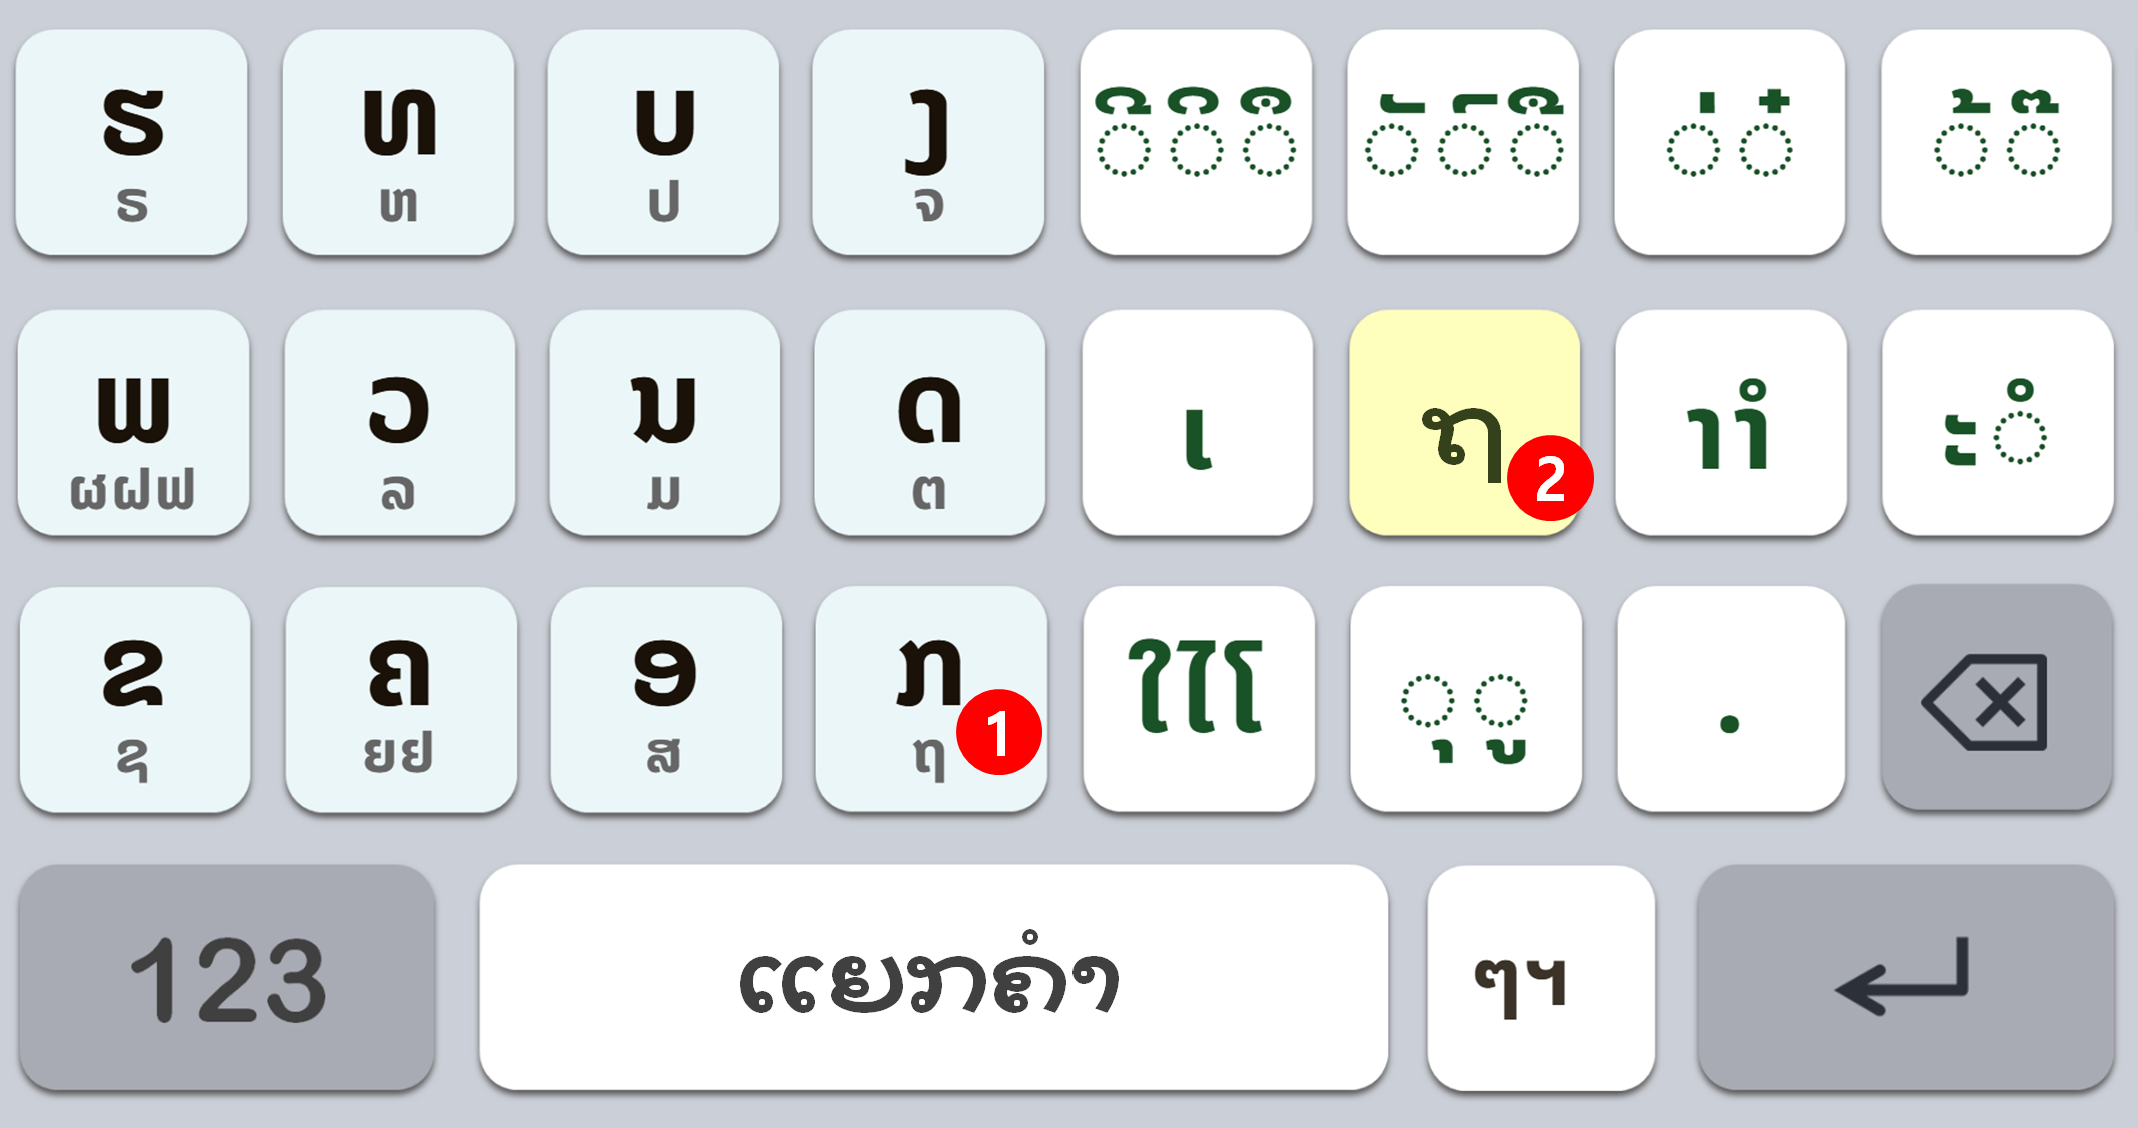
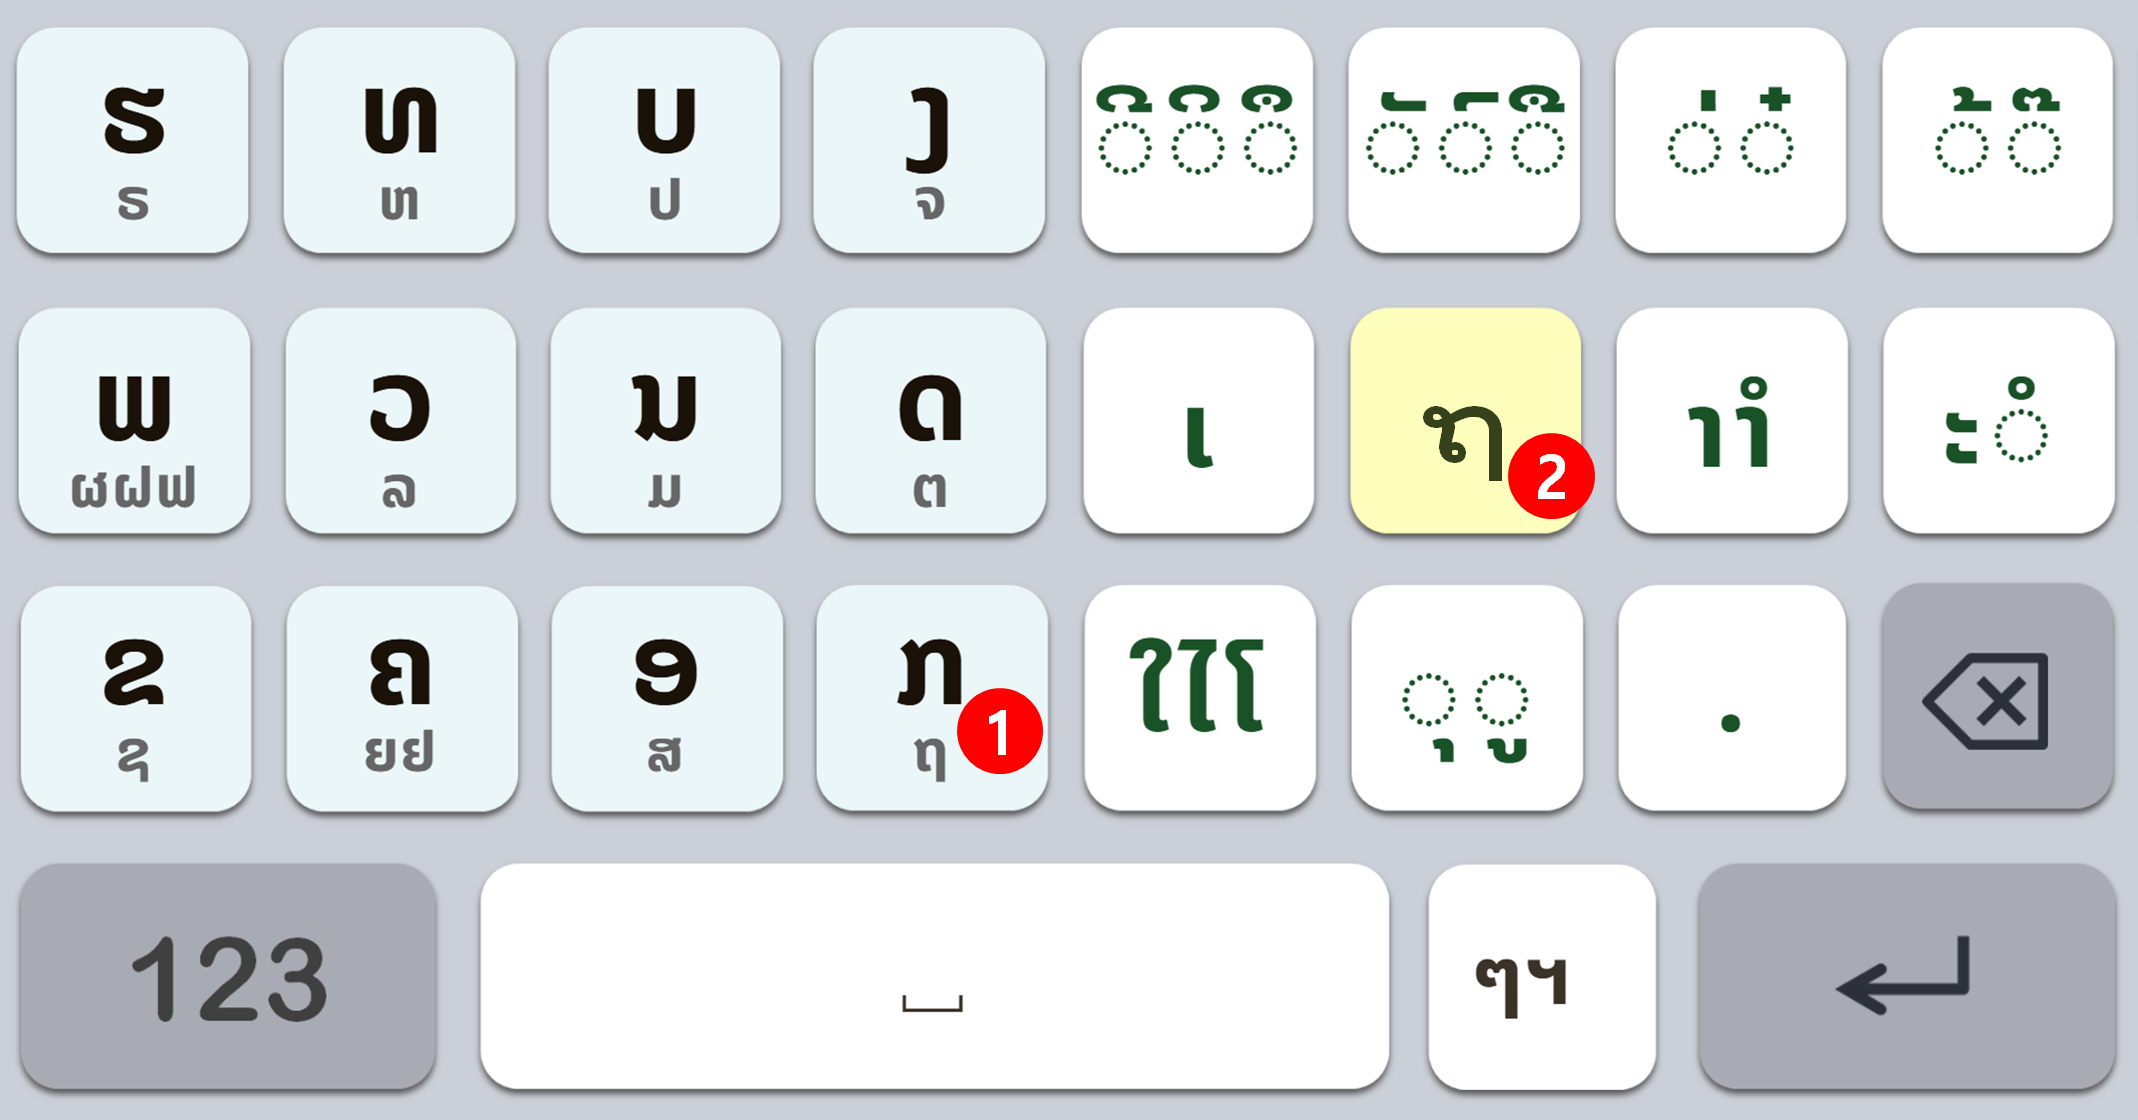
Add files via upload

diff --git a/mobile_demo.html b/mobile_demo.html
@@ -3,12 +3,12 @@
 <head>
 <meta charset="utf-8" />
 <meta name="viewport" content="width=device-width, initial-scale=1, maximum-scale=1, user-scalable=no, viewport-fit=cover" />
-<link href="https://fonts.googleapis.com/css2?family=Noto+Sans+Lao:wght@400;700&family=Noto+Sans:wght@400;700&display=swap" rel="stylesheet">
+<link href="https://fonts.googleapis.com/css2?family=Noto+Sans+Lao:wght@400;700&display=swap" rel="stylesheet">
 <style>
   * { box-sizing: border-box; margin: 0; padding: 0; }
   html, body {
     height: 100%; background: #6b7280;
-    font-family: 'Noto Sans Lao', 'Noto Sans', sans-serif;
+    font-family: 'Noto Sans Lao', sans-serif;
     overflow: hidden;
     display: flex;
     justify-content: center;
@@ -41,7 +41,6 @@
     white-space: pre-wrap; color: #1a1208; overflow-wrap: break-word;
   }
   .cursor { color: #4caf80; animation: blink 1s step-end infinite; font-weight: 100; }
-  .caron { font-family: 'Noto Sans', Arial, sans-serif; font-size: 0.75em; color: #999; font-weight: 300; }
   @keyframes blink { from, to { opacity: 0; } 50% { opacity: 1; } }
 
   #keyboard-wrap {
@@ -62,7 +61,8 @@
     -webkit-tap-highlight-color: transparent;
     user-select: none;
     display: flex; align-items: center; justify-content: center;
-    font-family: 'Noto Sans Lao', 'Noto Sans', sans-serif;
+    font-family: 'Noto Sans Lao', sans-serif;
+    font-weight: bold;
     padding: 0;
   }
   .kbd-btn:active { opacity: 0.5; }
@@ -82,7 +82,7 @@
     position: absolute;
     pointer-events: none;
     display: flex; align-items: center; justify-content: center;
-    font-family: 'Noto Sans Lao', 'Noto Sans', sans-serif; font-weight: bold;
+    font-family: 'Noto Sans Lao', sans-serif; font-weight: bold;
   }
   .kbd-space-label { font-size: clamp(13px, 3.8vw, 18px); color: #3b3228; }
   .kbd-repeat-label { font-size: clamp(12px, 4vw, 18px); color: #3b3228; }
@@ -154,7 +154,6 @@ let state = {
   signTapIdx: 0,
   hConjMode: false,
   hConjChar: null,  // 현재 합자된 자음 (ນ, ມ, ລ 등)
-  spaceMode: 0,     // 0=초기, 1=1탭(ZWSP+캐런 삽입됨), 2+=공란모드
 };
 
 const editor = document.getElementById('editor');
@@ -162,8 +161,7 @@ function getText() { return editor.dataset.text || ''; }
 function setText(t) {
   editor.dataset.text = t;
   const esc = t.replace(/&/g,'&amp;').replace(/</g,'&lt;').replace(/>/g,'&gt;');
-  const withCaron = esc.replace(/\u02C7/g, '<span class="caron">ˇ</span>');
-  editor.innerHTML = withCaron + `<span class="cursor">|</span>`;
+  editor.innerHTML = esc + `<span class="cursor">|</span>`;
 }
 function appendText(c) { setText(getText() + c); }
 function replaceLastChar(c) { const t=getText(); if(!t.length)return; setText(t.slice(0,-1)+c); }
@@ -173,17 +171,7 @@ function getRoot(char) {
   return null;
 }
 
-// 캐런(ˇ) 자동 삭제 + spaceMode 리셋
-function clearCaron() {
-  if (state.spaceMode === 1) {
-    const t = getText();
-    if (t.endsWith('\u02C7')) setText(t.slice(0, -1));
-  }
-  state.spaceMode = 0; // 어떤 키든 입력되면 항상 리셋
-}
-
 function handleConsonant(root) {
-  clearCaron();
   const arr = consonantRows[root];
   const char = arr[0];
   if (state.hConjMode) {
@@ -211,7 +199,6 @@ function handleConsonant(root) {
 }
 
 function handleNext() {
-  clearCaron();
   // 합자 상태에서 변환키: 합자 자음을 그룹 내 다음 자음으로 교체
   if (state.hConjChar) {
     const conjRoot = getRoot(state.hConjChar);
@@ -250,7 +237,6 @@ function handleNext() {
 }
 
 function handleSign(keyId, chars) {
-  clearCaron();
   if (state.lastSignKey === keyId) {
     state.signTapIdx = (state.signTapIdx + 1) % chars.length;
     const t = getText(); setText(t.slice(0,-1) + chars[state.signTapIdx]);
@@ -263,7 +249,6 @@ function handleSign(keyId, chars) {
 }
 
 function handleDot() {
-  clearCaron();
   appendText('.');
   state.lastSignKey = null; state.signTapIdx = 0;
   state.activeRoot = null; state.activeCharIdx = 0;
@@ -271,19 +256,6 @@ function handleDot() {
 }
 
 function handleBS() {
-  // BS: 캐런 있으면 캐런만 지우고 spaceMode 리셋, 없으면 일반 BS
-  if (state.spaceMode === 1) {
-    const tc = getText();
-    if (tc.endsWith('\u02C7')) setText(tc.slice(0, -1)); // 캐런 제거
-    state.spaceMode = 0;
-    state.lastSignKey = null; state.signTapIdx = 0; state.hConjMode = false;
-    const t2 = getText();
-    const last2 = t2.length ? t2[t2.length-1] : null;
-    const root2 = last2 ? getRoot(last2) : null;
-    state.activeRoot = root2;
-    state.activeCharIdx = root2 ? consonantRows[root2].indexOf(last2) : 0;
-    render(); return;
-  }
   const tb = getText(); if (state.hConjMode && tb.endsWith('+')) setText(tb.slice(0,-1));
   backspace();
   state.lastSignKey = null; state.signTapIdx = 0; state.hConjMode = false;
@@ -296,7 +268,6 @@ function handleBS() {
 }
 
 function handleRepeat() {
-  clearCaron();
   const chars = ['ໆ','ຯ'];
   const keyId = 'repeat';
   if (state.lastSignKey === keyId) {
@@ -444,24 +415,14 @@ function render() {
   kbd.appendChild(makeBtn('kbd-space', {
     left:'23.4%', top:BOT_Y+'%', width:'40.7%', height:BOT_H+'%'
   }, () => {
-    if (state.spaceMode === 0) {
-      // 1탭: ZWSP + 캐런 삽입
-      appendText('\u200B\u02C7');
-      state.spaceMode = 1;
-    } else {
-      // 2탭 이후: 캐런 제거(있으면) 후 공백 추가
-      const tc = getText();
-      if (tc.endsWith('\u02C7')) setText(tc.slice(0, -1));
-      appendText(' ');
-      state.spaceMode = 2;
-    }
+    appendText(' ');
     state.activeRoot=null; state.activeCharIdx=0;
     state.lastSignKey=null; state.hConjMode=false; render();
   }));
   const lbl = document.createElement('div');
   lbl.className = 'kbd-space-label';
   lbl.style.cssText = `left:23.4%;top:${BOT_Y}%;width:40.7%;height:${BOT_H}%;`;
-  lbl.textContent = state.spaceMode >= 1 ? 'ຍະຫວ່າງ' : 'ແຍກຄໍາ';
+  lbl.textContent = '␣';
   kbd.appendChild(lbl);
 
   kbd.appendChild(makeBtn('kbd-repeat', {
@@ -475,12 +436,12 @@ function render() {
 
   kbd.appendChild(makeBtn('kbd-enter', {
     left:'78.2%', top:BOT_Y+'%', width:'20.6%', height:BOT_H+'%'
-  }, () => { clearCaron(); state.spaceMode=0; appendText('\n'); render(); }));
+  }, () => { appendText('\n'); render(); }));
 }
 
 function resetAll() {
   setText('');
-  state = { activeRoot:null, activeCharIdx:0, lastSignKey:null, signTapIdx:0, hConjMode:false, hConjChar:null, spaceMode:0 };
+  state = { activeRoot:null, activeCharIdx:0, lastSignKey:null, signTapIdx:0, hConjMode:false, hConjChar:null };
   render();
 }
 

diff --git a/pc_demo_windows.html b/pc_demo_windows.html
@@ -4,7 +4,7 @@
 <meta charset="utf-8" />
 <meta name="viewport" content="width=device-width, initial-scale=1.0" />
 <title>Hathabang PC Demo</title>
-<link href="https://fonts.googleapis.com/css2?family=Noto+Sans+Lao:wght@400;700;900&family=Noto+Sans:wght@300;400;700&display=swap" rel="stylesheet">
+<link href="https://fonts.googleapis.com/css2?family=Noto+Sans+Lao:wght@400;700;900&display=swap" rel="stylesheet">
 <style>
   body { 
     background: url('images/windows.png') no-repeat center center fixed; 
@@ -36,7 +36,6 @@
     animation: blink 1s step-end infinite;
     font-weight: 100;
   }
-  .caron { font-family: 'Noto Sans', Arial, sans-serif; font-size: 0.75em; color: #999; font-weight: 300; }
   @keyframes blink {
     from, to { color: transparent; }
     50% { color: black; }
@@ -224,31 +223,14 @@ let state = {
   activeRoot: null, activeCharIdx: 0,
   lastSignKey: null, signTapIdx: 0,
   hConjMode: false, hConjChar: null,
-  spaceMode: 0, // 0=초기, 1=1탭(ZWSP+캐런), 2+=공란모드
 };
 
 const editor = document.getElementById('editor');
-
-function getText() { return editor.dataset.text || ''; }
-function setText(t) {
-  editor.dataset.text = t;
-  const esc = t.replace(/&/g,'&amp;').replace(/</g,'&lt;').replace(/>/g,'&gt;')
-               .replace(/\n/g,'<br>');
-  const withCaron = esc.replace(/\u02C7/g, '<span class="caron">ˇ</span>');
-  editor.innerHTML = withCaron;
-}
+const getText = () => editor.innerText;
+const setText = t => { editor.innerText = t; };
 const appendText = c => setText(getText() + c);
 const replaceLastChar = c => { const t = getText(); if (!t.length) return; setText(t.slice(0,-1)+c); };
 const doBackspace = () => { const t = getText(); if (!t.length) return; setText(t.slice(0,-1)); };
-
-// 캐런 자동 삭제 + spaceMode 리셋
-function clearCaron() {
-  if (state.spaceMode === 1) {
-    const t = getText();
-    if (t.endsWith('\u02C7')) setText(t.slice(0, -1));
-  }
-  state.spaceMode = 0;
-}
 
 function getRoot(char) {
   for (const [root, arr] of Object.entries(consonantRows))
@@ -257,7 +239,6 @@ function getRoot(char) {
 }
 
 function handleConsonant(root) {
-  clearCaron();
   const arr = consonantRows[root];
   const char = arr[0];
   if (state.hConjMode) {
@@ -284,7 +265,6 @@ function handleConsonant(root) {
 }
 
 function handleNext() {
-  clearCaron();
   if (state.hConjChar) {
     const conjRoot = getRoot(state.hConjChar);
     if (conjRoot) {
@@ -315,7 +295,6 @@ function handleNext() {
 }
 
 function handleSign(keyId, chars) {
-  clearCaron();
   if (state.lastSignKey === keyId) {
     state.signTapIdx = (state.signTapIdx + 1) % chars.length;
     setText(getText().slice(0,-1) + chars[state.signTapIdx]);
@@ -328,7 +307,6 @@ function handleSign(keyId, chars) {
 }
 
 function handleDot() {
-  clearCaron();
   appendText('.');
   state.lastSignKey = null; state.signTapIdx = 0;
   state.activeRoot = null; state.activeCharIdx = 0;
@@ -336,15 +314,6 @@ function handleDot() {
 }
 
 function handleBS() {
-  if (state.spaceMode === 1) {
-    const tc = getText();
-    if (tc.endsWith('\u02C7')) setText(tc.slice(0, -1));
-    state.spaceMode = 0;
-    state.lastSignKey = null; state.signTapIdx = 0; state.hConjMode = false; state.hConjChar = null;
-    const t2 = getText(); const last = t2.length ? t2[t2.length-1] : null; const root = last ? getRoot(last) : null;
-    state.activeRoot = root; state.activeCharIdx = root ? consonantRows[root].indexOf(last) : 0;
-    updateKbdUI(); return;
-  }
   const t = getText();
   if (state.hConjMode && t.endsWith('+')) setText(t.slice(0,-1));
   doBackspace();
@@ -359,7 +328,6 @@ function handleBS() {
 }
 
 function handleRepeat() {
-  clearCaron();
   const chars = ['ໆ','ຯ'];
   if (state.lastSignKey === 'repeat') {
     state.signTapIdx = (state.signTapIdx + 1) % chars.length;
@@ -393,23 +361,8 @@ window.addEventListener('keydown', (e) => {
   if (el) el.classList.add('active');
 
   if (k === 'backspace') { handleBS(); editor.scrollTop = editor.scrollHeight; return; }
-  if (k === 'enter') { clearCaron(); if (state.hConjMode) { const t=getText(); if(t.endsWith('+')) setText(t.slice(0,-1)); } appendText('\n'); state.activeRoot=null; state.activeCharIdx=0; state.lastSignKey=null; state.hConjMode=false; updateKbdUI(); editor.scrollTop=editor.scrollHeight; return; }
-  if (k === ' ') {
-    if (state.hConjMode) { const t=getText(); if(t.endsWith('+')) setText(t.slice(0,-1)); state.hConjMode=false; }
-    if (state.spaceMode === 0) {
-      // 1탭: ZWSP + 캐런
-      appendText('\u200B\u02C7');
-      state.spaceMode = 1;
-    } else {
-      // 2탭 이후: 캐런 제거 후 공백
-      const tc = getText();
-      if (tc.endsWith('\u02C7')) setText(tc.slice(0, -1));
-      appendText(' ');
-      state.spaceMode = 2;
-    }
-    state.activeRoot=null; state.activeCharIdx=0; state.lastSignKey=null;
-    updateKbdUI(); editor.scrollTop=editor.scrollHeight; return;
-  }
+  if (k === 'enter')     { if (state.hConjMode) { const t=getText(); if(t.endsWith('+')) setText(t.slice(0,-1)); } appendText('\n'); state.activeRoot=null; state.activeCharIdx=0; state.lastSignKey=null; state.hConjMode=false; updateKbdUI(); editor.scrollTop=editor.scrollHeight; return; }
+  if (k === ' ')         { if (state.hConjMode) { const t=getText(); if(t.endsWith('+')) setText(t.slice(0,-1)); } appendText(' ');  state.activeRoot=null; state.activeCharIdx=0; state.lastSignKey=null; state.hConjMode=false; updateKbdUI(); editor.scrollTop=editor.scrollHeight; return; }
 
   const def = keyLookup[k];
   if (!def || def.type === 'empty') return;
@@ -519,7 +472,7 @@ function updateKbdUI() {
 
 function resetEditor() {
   setText('');
-  state = { activeRoot:null, activeCharIdx:0, lastSignKey:null, signTapIdx:0, hConjMode:false, hConjChar:null, spaceMode:0 };
+  state = { activeRoot:null, activeCharIdx:0, lastSignKey:null, signTapIdx:0, hConjMode:false, hConjChar:null };
   updateKbdUI();
 }
 
